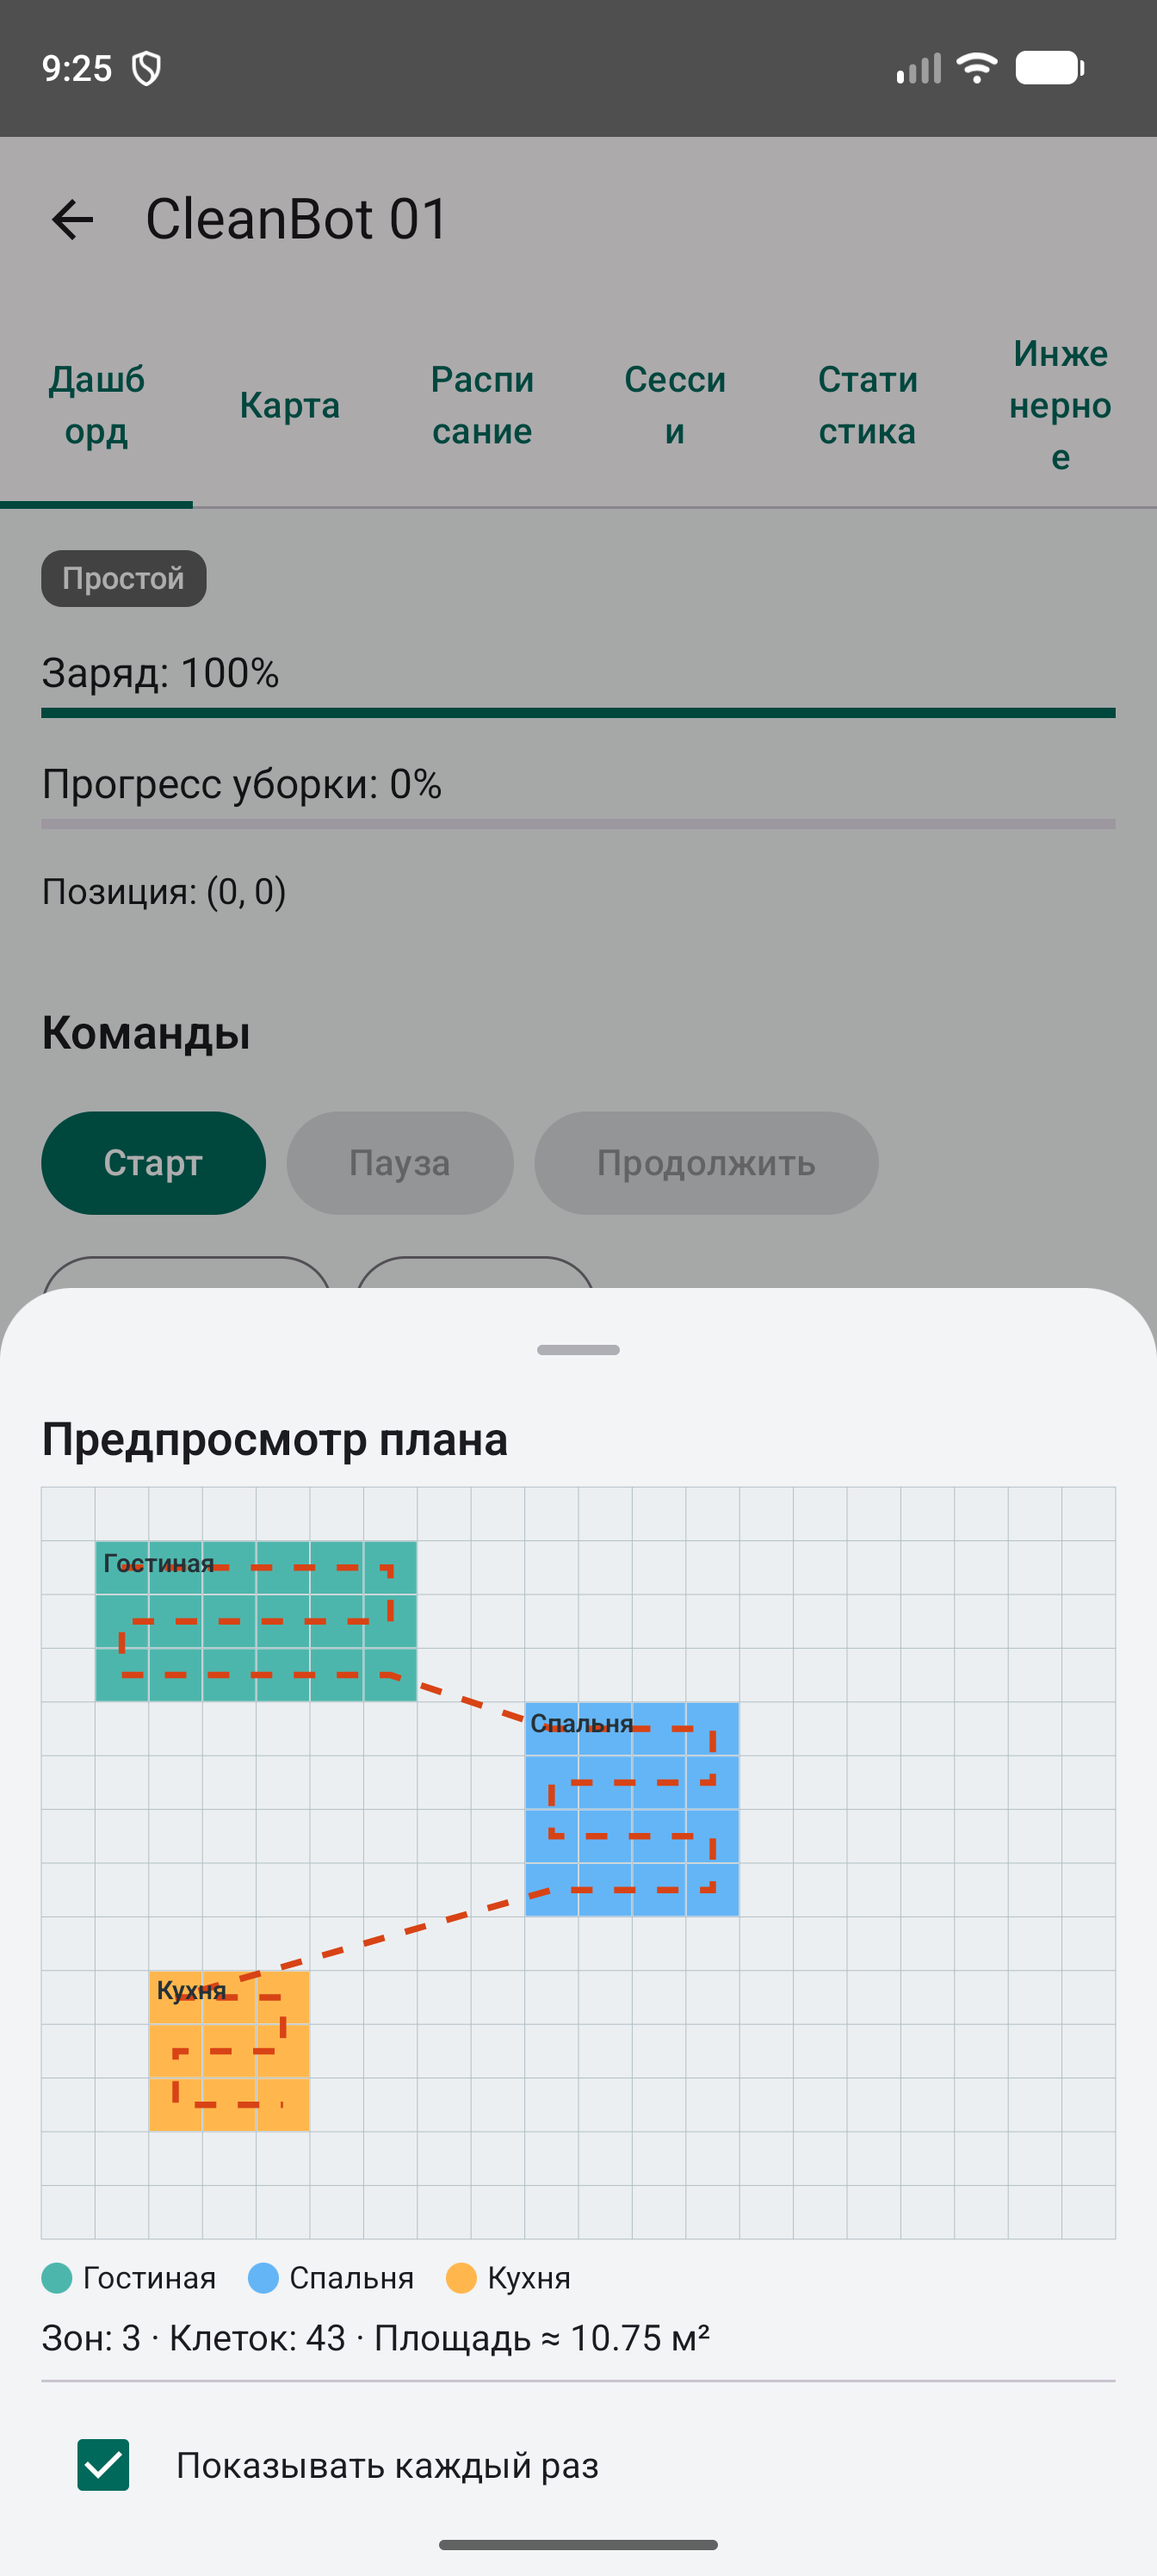
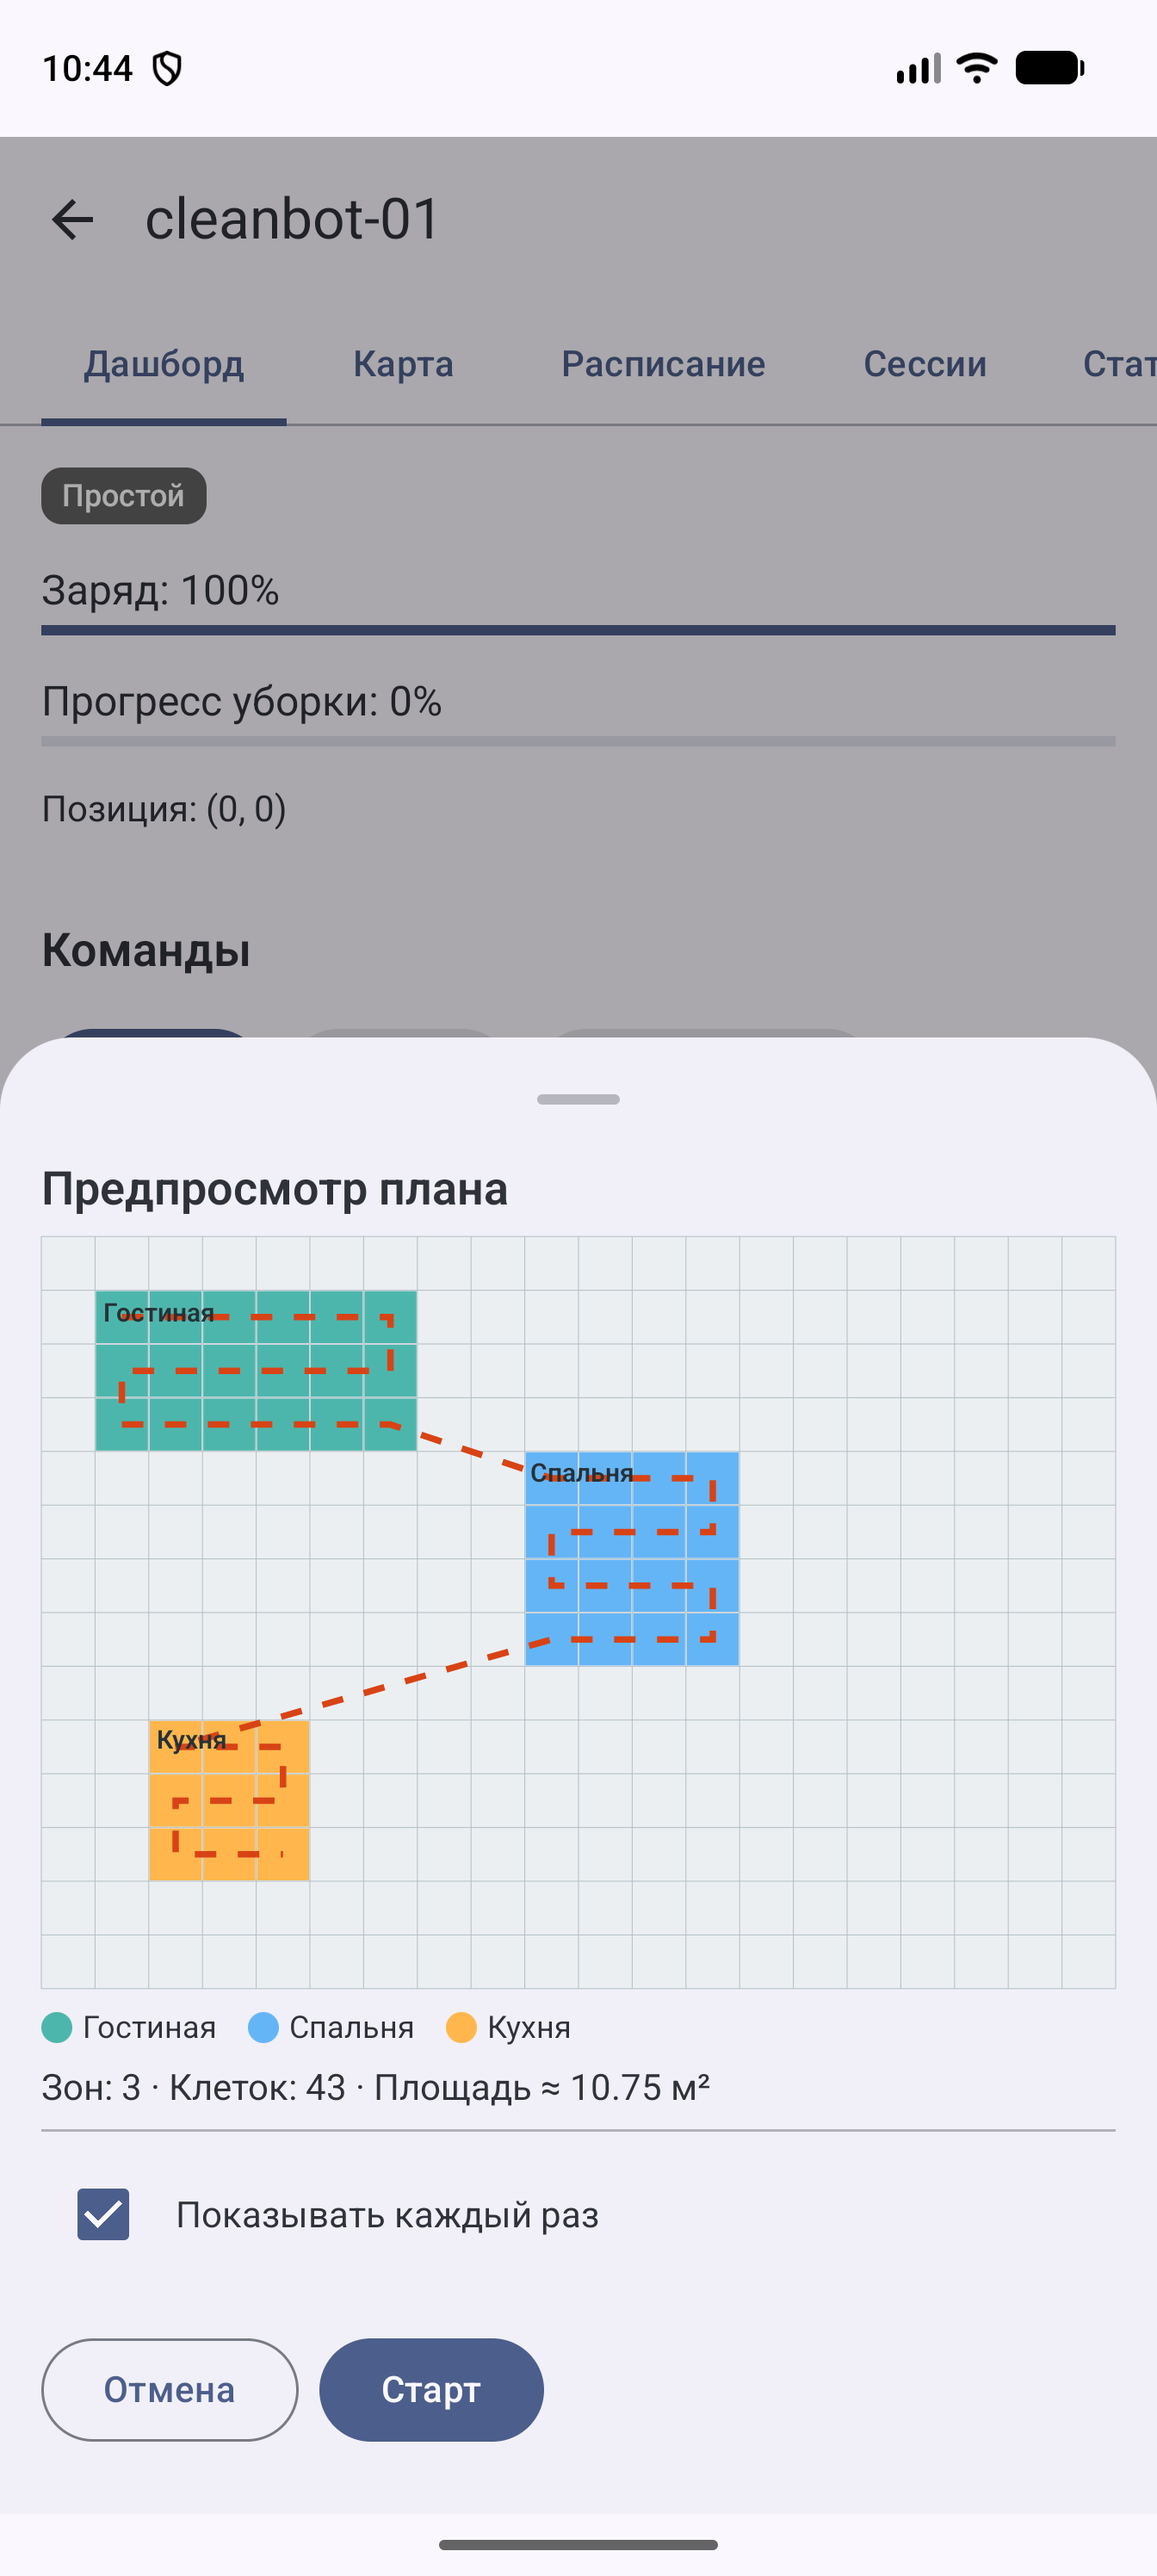
docs: скриншоты пересняты на UI-2026 — dynamic color, edge-to-edge; +тёмная тема и оффлайн-стейт
Пересняты все 11 кадров живого прогона (симулятор + приложение на эмуляторе
Pixel 10 Pro XL, API 37) после #41: Material You dynamic color и edge-to-edge
поменяли look, старые снимки больше не соответствовали UI.
Новые кадры: 12-dark-theme.png (рабочая тёмная тема на живой уборке),
13-offline.png (оффлайн-стейт с «Повторить»). В таблице возможностей
добавлена строка про темы.

diff --git a/README.md b/README.md
@@ -41,6 +41,7 @@ Android console for industrial cleaning robot fleets — live telemetry, remote 
 | **Офлайн-кэш** | телеметрия и сессии хранятся локально (Room), доступны без сети |
 | **Инженерное меню** | настройки робота (имя, адрес сервера — сохраняется между запусками), журнал событий |
 | **Push-уведомления** | уведомления об ошибках роботов |
+| **Темы** | тёмная и светлая темы, Material You dynamic color (Android 12+) |
 
 ## 🖼 Скриншоты
 
@@ -65,6 +66,11 @@ Android console for industrial cleaning robot fleets — live telemetry, remote 
   <tr>
     <td align="center"><img src="docs/screenshots/10-notification.png" width="260" alt="Push-уведомление"/><br><sub><b>Push-уведомление</b> — авария робота</sub></td>
     <td align="center"><img src="docs/screenshots/11-error-state.png" width="260" alt="Конкретизация ошибки"/><br><sub><b>Ошибка</b> — конкретизация и сброс</sub></td>
+    <td align="center"><img src="docs/screenshots/12-dark-theme.png" width="260" alt="Тёмная тема"/><br><sub><b>Тёмная тема</b> — Material You, dynamic color</sub></td>
+  </tr>
+  <tr>
+    <td align="center"><img src="docs/screenshots/13-offline.png" width="260" alt="Оффлайн-стейт"/><br><sub><b>Оффлайн-стейт</b> — понятное состояние и «Повторить»</sub></td>
+    <td></td>
     <td></td>
   </tr>
 </table>
